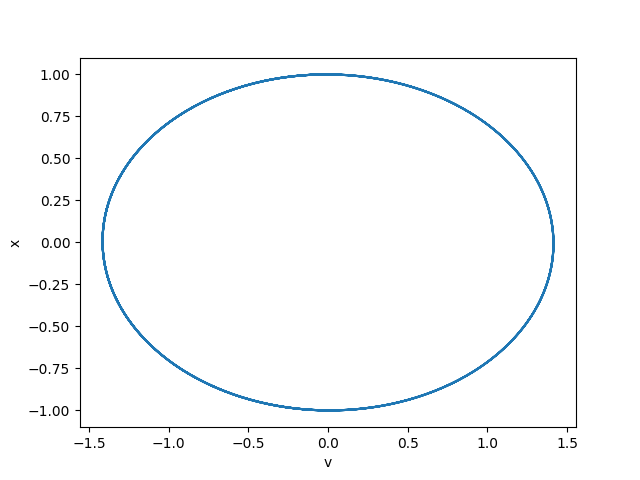
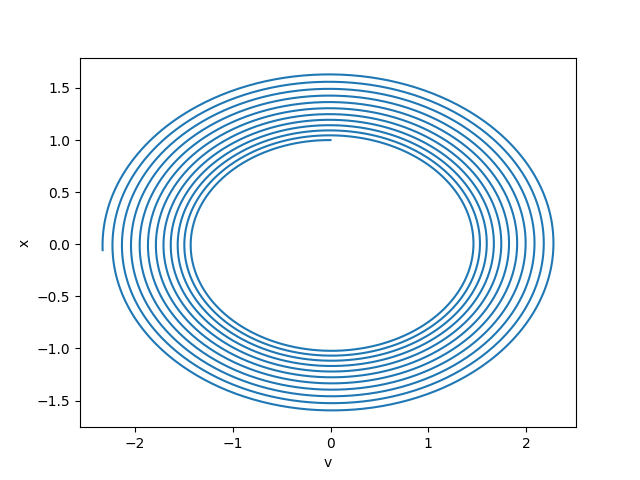
Se corrigió el código para que el método de Euler no de la solución correcta.

diff --git a/Euler.cpp b/Euler.cpp
@@ -19,12 +19,11 @@ int main(int argc, char **argv){
     float t;
     for(t=0; t<=T;t+=h){
         std::cout << t << "\t" << v_siguiente << "\t" << x_siguiente << std::endl;
-        x_siguiente = x_anterior + h*v_siguiente;
-        x_anterior = x_siguiente;
-        
         v_siguiente = v_anterior + h*f(x_anterior);
-        v_anterior = v_siguiente;
+        x_siguiente = x_anterior + h*v_anterior;
         
+        v_anterior = v_siguiente;
+        x_anterior = x_siguiente;
         
     }
     std::cout << t << "\t" << v_siguiente << "\t" << x_siguiente << std::endl;
